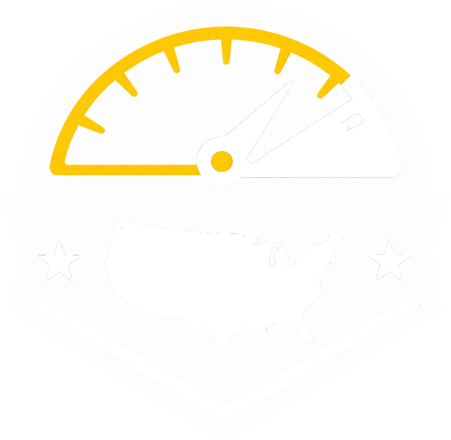
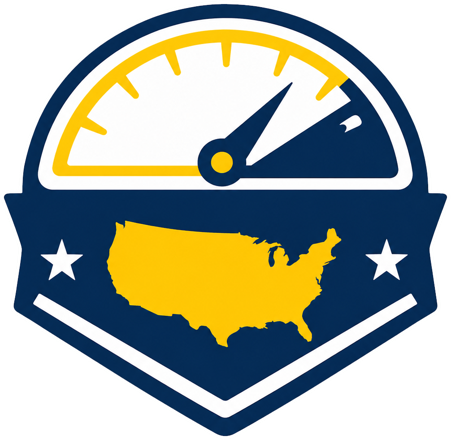
drayow.com: header/footer mark -> filled navy/yellow gauge badge (v2)

diff --git a/nextjs-site/src/components/Nav.tsx b/nextjs-site/src/components/Nav.tsx
@@ -9,7 +9,7 @@ export default function Nav() {
     <header className="sticky top-0 z-40 border-b" style={{ background: "#0B2D5C", borderColor: "rgba(255,255,255,0.18)" }}>
       <div className="max-w-[1400px] mx-auto px-6 h-16 flex items-center justify-between">
         <Link href="/" className="flex items-center gap-2.5">
-          <img src={asset("/drayow-mark.png?v=1")} alt="" className="h-9 md:h-11 w-auto" />
+          <img src={asset("/drayow-mark.png?v=2")} alt="" className="h-9 md:h-11 w-auto" />
           <span className="display font-extrabold text-[20px] md:text-[24px] tracking-tight leading-none text-white">Dray <span className="text-[#ffc400]">Overweight</span></span>
         </Link>
         <nav className="hidden lg:flex items-center gap-5 text-[13px] font-medium text-white/85">

diff --git a/nextjs-site/src/components/Footer.tsx b/nextjs-site/src/components/Footer.tsx
@@ -43,7 +43,7 @@ export default function Footer() {
           {/* brand + contact */}
           <div>
             <span className="flex items-center gap-2.5">
-              <img src={asset("/drayow-mark.png?v=1")} alt="" className="h-11 w-auto" />
+              <img src={asset("/drayow-mark.png?v=2")} alt="" className="h-11 w-auto" />
               <span className="display font-extrabold text-[22px] tracking-tight leading-none text-white">Dray <span className="text-[#ffc400]">Overweight</span></span>
             </span>
             <p className="mt-4 max-w-xs text-white/60 text-[13.5px] leading-relaxed">
